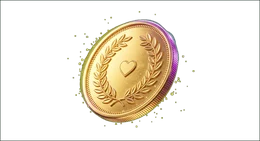
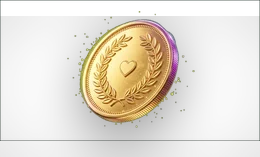
perf: variable fonts (1 file per family), ETag 304 di /api/data, bayangan koin dibakar, pause animasi saat tab hidden

diff --git a/src/app/api/data/route.ts b/src/app/api/data/route.ts
@@ -1,4 +1,3 @@
-import { NextResponse } from "next/server";
 import { pakasirConfigured } from "@/lib/pakasir";
 import { readStore } from "@/lib/data";
 
@@ -7,34 +6,65 @@ import { readStore } from "@/lib/data";
 // mengandalkan props server dan admin harus reload penuh biar perubahan kelihatan.
 export const dynamic = "force-dynamic";
 
-export async function GET() {
+/**
+ * ETag murah (FNV-1a) atas JSON: auto-refresh 20 detik jadi nyaris gratis —
+ * kalau isi store tidak berubah, server balas 304 tanpa body, jadi HP tidak
+ * mendownload ulang ~18 KB tiap polling.
+ */
+function hashJson(text: string): string {
+  let h = 0x811c9dc5;
+  for (let i = 0; i < text.length; i++) {
+    h ^= text.charCodeAt(i);
+    h = Math.imul(h, 0x01000193) >>> 0;
+  }
+  return `W/"${h.toString(36)}-${text.length}"`;
+}
+
+export async function GET(req: Request) {
   const s = await readStore();
-  return NextResponse.json(
-    {
-      profile: s.profile,
-      links: s.links.filter((l) => l.enabled).sort((a, b) => a.order - b.order),
-      social: s.social,
-      stack: s.stack,
-      team: s.team,
-      stories: s.stories,
-      fonts: s.fonts,
-      theme: s.theme,
-      background: s.background,
-      linkShape: s.linkShape,
-      stackAlign: s.stackAlign,
-      linkLayout: s.linkLayout,
-      bubble: s.bubble,
-      sections: s.sections,
-      branding: s.branding,
-      projects: s.projects.filter((p) => p.enabled).sort((a, b) => a.order - b.order),
-      products: s.shop.enabled
-        ? s.products.filter((p) => p.enabled).sort((a, b) => a.order - b.order)
-        : [],
-      shop: { ...s.shop, payReady: pakasirConfigured },
-      donation: s.donation,
-      tabs: s.tabs,
-      rulesUrl: s.seo.rulesUrl,
+  const payload = {
+    profile: s.profile,
+    links: s.links.filter((l) => l.enabled).sort((a, b) => a.order - b.order),
+    social: s.social,
+    stack: s.stack,
+    team: s.team,
+    stories: s.stories,
+    fonts: s.fonts,
+    theme: s.theme,
+    background: s.background,
+    linkShape: s.linkShape,
+    stackAlign: s.stackAlign,
+    linkLayout: s.linkLayout,
+    bubble: s.bubble,
+    sections: s.sections,
+    branding: s.branding,
+    projects: s.projects
+      .filter((p) => p.enabled)
+      .sort((a, b) => a.order - b.order),
+    products: s.shop.enabled
+      ? s.products.filter((p) => p.enabled).sort((a, b) => a.order - b.order)
+      : [],
+    shop: { ...s.shop, payReady: pakasirConfigured },
+    donation: s.donation,
+    tabs: s.tabs,
+    rulesUrl: s.seo.rulesUrl,
+  };
+  const body = JSON.stringify(payload);
+  const etag = hashJson(body);
+
+  // 304: browser pakai data yang sudah dipegang, transfer ~0 byte.
+  if (req.headers.get("if-none-match") === etag) {
+    return new Response(null, {
+      status: 304,
+      headers: { ETag: etag, "Cache-Control": "no-store" },
+    });
+  }
+
+  return new Response(body, {
+    headers: {
+      "Content-Type": "application/json",
+      ETag: etag,
+      "Cache-Control": "no-store",
     },
-    { headers: { "Cache-Control": "no-store" } }
-  );
+  });
 }

diff --git a/src/lib/fonts.ts b/src/lib/fonts.ts
@@ -1,15 +1,21 @@
 // Curated font set (Google Fonts). Each key maps to a display name + css font stack.
-export const FONTS: Record<string, { label: string; family: string; weight?: string }> = {
+// `variable: true` = Google Fonts punya versi variable untuk family ini, jadi
+// SATU file WOFF2 sudah mencakup semua weight (bukan satu file per weight).
+// Poppins belum punya versi variable -> tetap daftar weight statis.
+export const FONTS: Record<
+  string,
+  { label: string; family: string; weight?: string; variable?: boolean }
+> = {
   poppins: { label: "Poppins", family: "Poppins", weight: "400;500;600;700" },
-  inter: { label: "Inter", family: "Inter", weight: "400;500;600;700" },
-  "space-grotesk": { label: "Space Grotesk", family: "Space Grotesk", weight: "400;500;600;700" },
-  montserrat: { label: "Montserrat", family: "Montserrat", weight: "400;500;600;700" },
-  outfit: { label: "Outfit", family: "Outfit", weight: "400;500;600;700" },
-  playfair: { label: "Playfair Display", family: "Playfair Display", weight: "400;600;700" },
-  lora: { label: "Lora", family: "Lora", weight: "400;600;700" },
-  "jetbrains-mono": { label: "JetBrains Mono", family: "JetBrains Mono", weight: "400;600;700" },
-  nunito: { label: "Nunito", family: "Nunito", weight: "400;600;700" },
-  oswald: { label: "Oswald", family: "Oswald", weight: "400;500;600;700" },
+  inter: { label: "Inter", family: "Inter", weight: "400;500;600;700", variable: true },
+  "space-grotesk": { label: "Space Grotesk", family: "Space Grotesk", weight: "400;500;600;700", variable: true },
+  montserrat: { label: "Montserrat", family: "Montserrat", weight: "400;500;600;700", variable: true },
+  outfit: { label: "Outfit", family: "Outfit", weight: "400;500;600;700", variable: true },
+  playfair: { label: "Playfair Display", family: "Playfair Display", weight: "400;600;700", variable: true },
+  lora: { label: "Lora", family: "Lora", weight: "400;600;700", variable: true },
+  "jetbrains-mono": { label: "JetBrains Mono", family: "JetBrains Mono", weight: "400;600;700", variable: true },
+  nunito: { label: "Nunito", family: "Nunito", weight: "400;600;700", variable: true },
+  oswald: { label: "Oswald", family: "Oswald", weight: "400;500;600;700", variable: true },
 };
 
 export const FONT_KEYS = Object.keys(FONTS);
@@ -32,7 +38,10 @@ export function googleFontsHref(fontKeys: string[]): string {
   const families = wanted
     .map((k) => {
       const f = FONTS[k];
-      return `family=${f.family.replace(/ /g, "+")}:wght@${f.weight || "400;600"}`;
+      const fam = f.family.replace(/ /g, "+");
+      // Variable font: range 400..700 -> satu file untuk semua weight.
+      if (f.variable) return `family=${fam}:wght@400..700`;
+      return `family=${fam}:wght@${f.weight || "400;600"}`;
     })
     .join("&");
   return `https://fonts.googleapis.com/css2?${families}&display=swap`;

diff --git a/src/components/BioPage.tsx b/src/components/BioPage.tsx
@@ -489,12 +489,23 @@ export default function BioPage({
   // - langsung ambil ulang saat tab kembali fokus / browser online lagi
   useEffect(() => {
     let alive = true;
+    // ETag terakhir: kalau isi store belum berubah, server balas 304 dan
+    // browser tidak mengunduh ulang JSON-nya (hemat kuota + baterai).
+    let etag = "";
     const refresh = () => {
       if (!alive) return;
       if (typeof document !== "undefined" && document.visibilityState === "hidden") return;
       // fetch diam-diam: tidak menyentuh state loading / error
-      fetch("/api/data", { cache: "no-store" })
-        .then((r) => (r.ok ? r.json() : null))
+      const headers: Record<string, string> = {};
+      if (etag) headers["If-None-Match"] = etag;
+      fetch("/api/data", { cache: "no-store", headers })
+        .then((r) => {
+          if (r.status === 304) return null;
+          if (!r.ok) return null;
+          const next = r.headers.get("etag");
+          if (next) etag = next;
+          return r.json();
+        })
         .then((d: PublicData | null) => {
           if (alive && d) {
             setData(d);
@@ -545,6 +556,15 @@ export default function BioPage({
       headers: { "Content-Type": "application/json" },
       body: JSON.stringify(getAttribution()),
     }).catch(() => {});
+  }, []);
+
+  // Hemat CPU/baterai: saat tab disembunyikan, semua animasi CSS dihentikan.
+  // (Browser tetap menjalankan animasi di tab background -> laptop/HP jadi panas.)
+  useEffect(() => {
+    const root = document.documentElement;
+    const onVis = () => root.classList.toggle("anim-paused", document.visibilityState === "hidden");
+    document.addEventListener("visibilitychange", onVis);
+    return () => document.removeEventListener("visibilitychange", onVis);
   }, []);
 
   // Prefetch chunk StoryViewer saat senggang (2,5 dtk setelah load): begitu

diff --git a/src/components/DonationBanner.tsx b/src/components/DonationBanner.tsx
@@ -88,7 +88,7 @@ export default function DonationBanner({
           alt=""
           width={420}
           height={347}
-          className="don-float-a absolute -left-1 top-0 w-[104px] drop-shadow-[0_18px_28px_rgba(0,0,0,0.5)] sm:-left-6 sm:w-[132px]"
+          className="don-float-a absolute -left-1 top-0 w-[104px] sm:-left-6 sm:w-[132px]"
         />
         {/* koin tunggal (kanan bawah, di luar kartu) */}
         {/* eslint-disable-next-line @next/next/no-img-element */}
@@ -97,7 +97,7 @@ export default function DonationBanner({
           alt=""
           width={260}
           height={141}
-          className={`don-float-b absolute -right-2 top-[calc(100%+6px)] w-[104px] drop-shadow-[0_14px_22px_rgba(0,0,0,0.5)] sm:-right-7 sm:w-[126px] ${
+          className={`don-float-b absolute -right-2 top-[calc(100%+6px)] w-[104px] sm:-right-7 sm:w-[126px] ${
             pulse ? "don-pop" : ""
           }`}
         />
@@ -248,9 +248,11 @@ export default function DonationBanner({
           __html: `
         .don-float-a {
           animation: donFloatA 7s ease-in-out infinite;
+          will-change: transform;
         }
         .don-float-b {
           animation: donFloatB 5.5s ease-in-out infinite;
+          will-change: transform;
         }
         .don-twinkle {
           animation: donTwinkle 2.6s ease-in-out infinite;

diff --git a/src/app/globals.css b/src/app/globals.css
@@ -235,3 +235,11 @@ body {
   background: #3a3a46;
   background-clip: content-box;
 }
+
+/* Tab background: matikan animasi. Sebelumnya morph blob + hue-rotate frame
+   profil tetap jalan walau tab tidak terlihat -> CPU naik percuma. */
+.anim-paused *,
+.anim-paused *::before,
+.anim-paused *::after {
+  animation-play-state: paused !important;
+}
